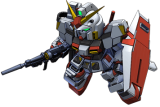
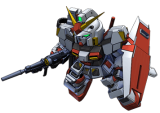
main character hoover animation idle

Changed region(s): [[0.0, 0.0, 1.0, 0.9252], [0.75, 0.9252, 0.9062, 0.9813]]

diff --git a/canvas/javascript/player/Player.js b/canvas/javascript/player/Player.js
@@ -78,10 +78,10 @@ export default class Player {
     //   PlayerSprite((imageNameTemplate, templateTotalNumber, animationSpeed,state,stopOrNot ))
     this.idle = new PlayerSprite(
       "Gundam hover-?.png",
-      1,
-      5,
+      4,
+      14,
       PlayerStates.idle,
-      true
+      false
     );
     //false means it is not oneTimer Animation so it will keep on looping
     this.fire = new PlayerSprite(

diff --git a/canvas/javascript/main.js b/canvas/javascript/main.js
@@ -33,7 +33,7 @@ function game() {
 
 setInterval(() => {
   game();
-}, 30);
+}, 1000 / 60);
 
 // ctx.fillStyle = "red";
 // ctx.fillRect(0, 0, 1000, 500);
